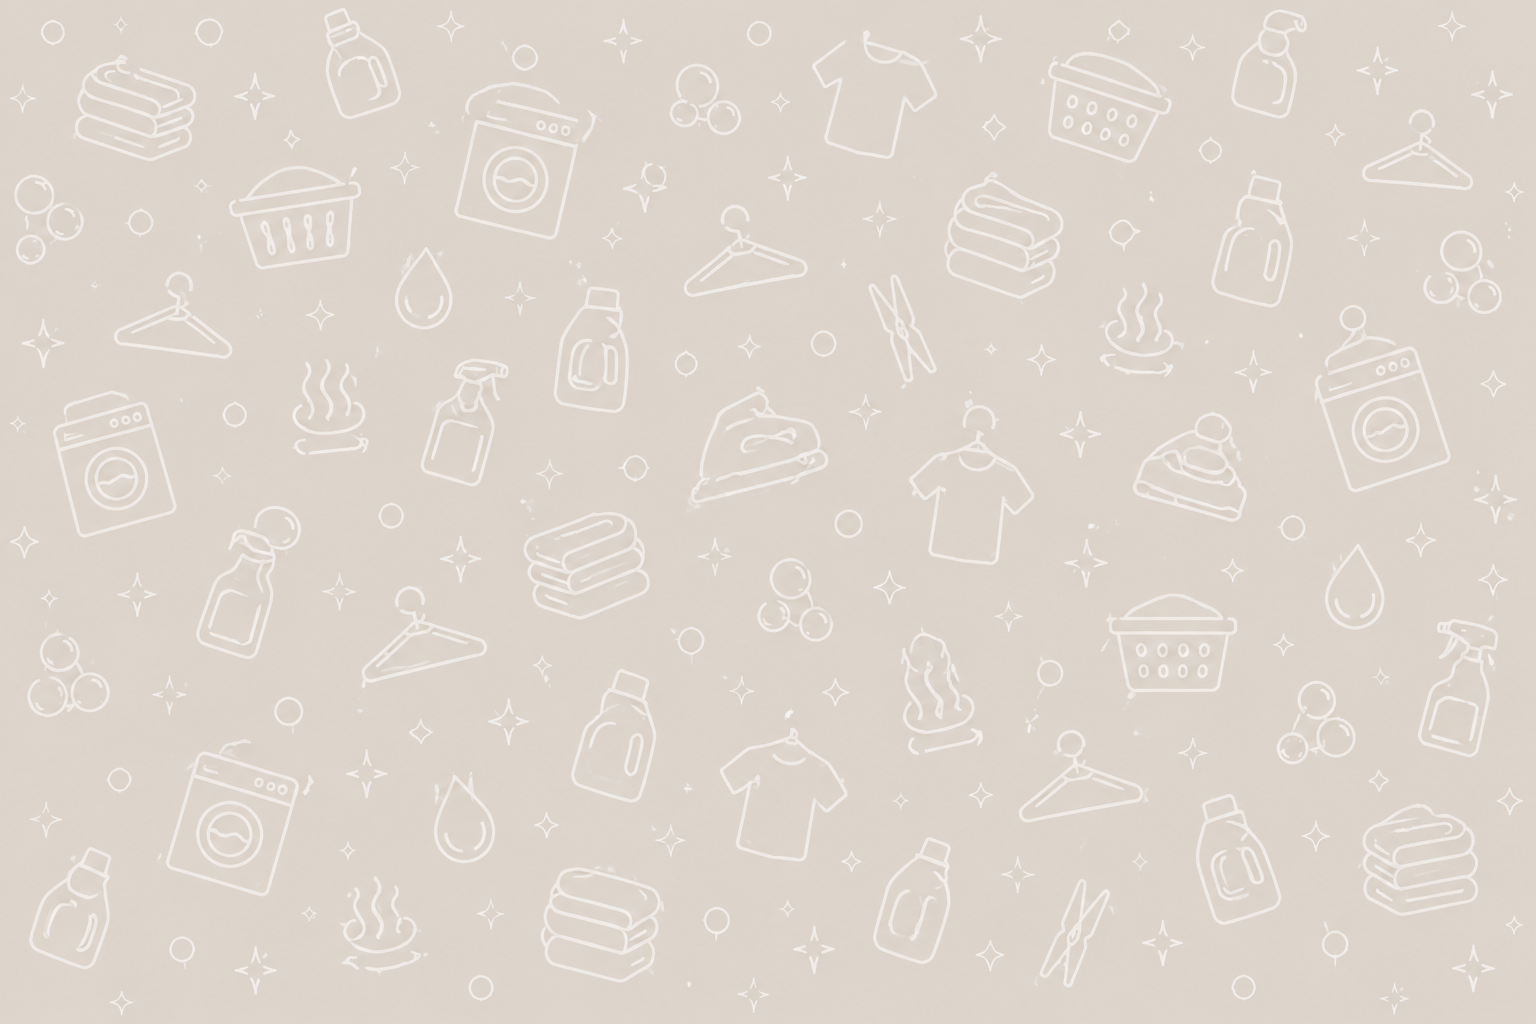
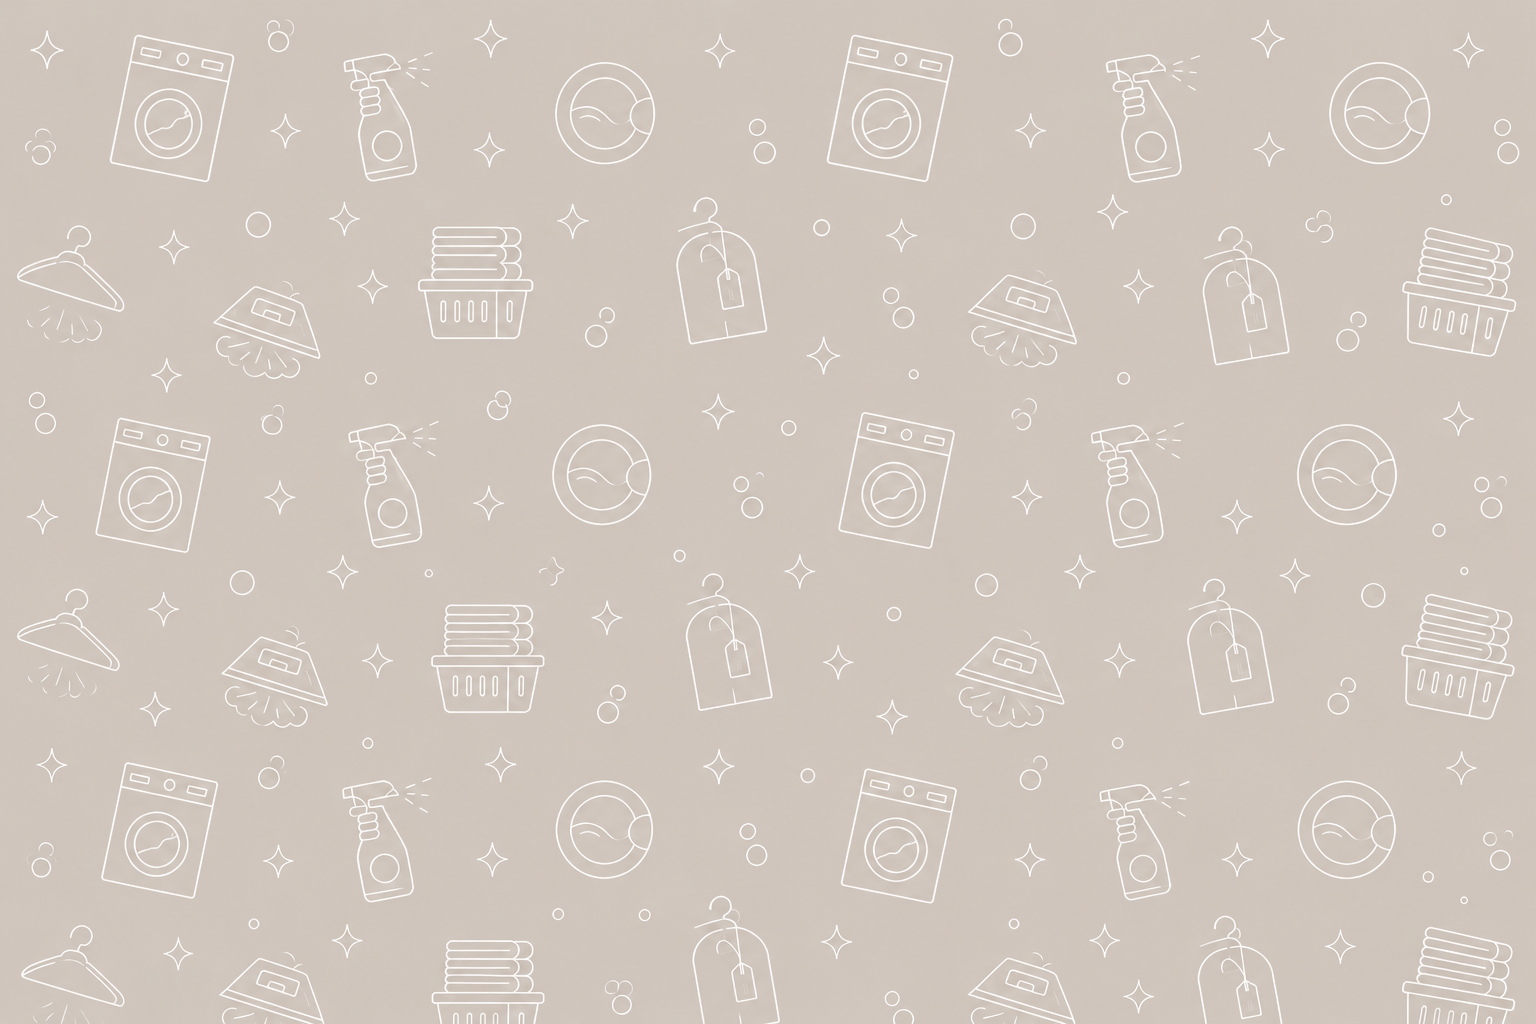
update homepage design

diff --git a/app/page.tsx b/app/page.tsx
@@ -1,96 +1,169 @@
 import Link from "next/link";
-import { Cpu, ClipboardCheck, Users, MessageCircle } from "lucide-react";
+import {
+  Cpu,
+  ClipboardCheck,
+  Users,
+  MessageCircle,
+  ShieldCheck,
+  Sparkles,
+  Droplets,
+  Waves,
+} from "lucide-react";
 
 export default function Home() {
   return (
     <main>
       {/* HERO */}
-      <section className="bg-gradient-to-r from-[#26364d] to-[#546d83] px-6 py-5 text-center text-white">
-        <div className="mx-auto max-w-4xl">
-<img
-  src="/logoa.png"
-  alt="Salla Arabic Logo"
-  className="mx-auto mb-1 h-60 w-auto object-contain"
-/>
+      <section className="relative overflow-hidden bg-[#26364d] text-white">
+        <img
+          src="/hero-counter.png"
+          alt="Salla premium garment care"
+          className="absolute inset-0 h-full w-full object-cover brightness-110 contrast-110"
+        />
 
-<p className="text-xl text-[#9cb2bf]">
-  Professional Wet & Dry Cleaning
-</p>
-          <p className="mx-auto max-w-3xl text-lg leading-8 text-white/90">
-            Salla is not the usual market player. We deliver professional garment
-            care through advanced technology, reliable processes, and skilled staff.
-          </p>
+        <div className="absolute inset-0 bg-gradient-to-r from-[#26364d] via-[#26364d]/85 to-[#26364d]/10" />
 
-          <a
-            href="https://wa.me/96895449977"
-            target="_blank"
-            className="mt-8 inline-flex items-center gap-2 rounded-xl bg-[#9cb2bf] px-6 py-3 font-semibold text-[#26364d] transition hover:scale-105"
-          >
-            <MessageCircle size={20} />
-            Contact on WhatsApp
-          </a>
+        <div className="relative mx-auto -mt-8 max-w-6xl px-6 pb-10">
+          <div className="max-w-2xl">
+            <img
+              src="/logoa.png"
+              alt="Salla Arabic Logo"
+              className="mb-1 h-70 w-auto object-contain"
+            />
+
+            <p className="mb-4 text- font-semibold uppercase tracking-[0.3em] text-[#9cb2bf]">
+              Professional Wet & Dry Cleaning
+            </p>
+
+            <h1 className="text-5xl font-bold leading-tight md:text-5xl">
+              Care Beyond Clean.
+              <br />
+              Quality You Can Trust.
+            </h1>
+
+            <p className="mt-6 max-w-xl text-lg leading-8 text-white/90">
+              Salla delivers premium garment care through advanced technology,
+              reliable processes, and skilled staff.
+            </p>
+
+            <div className="mt-8 flex flex-wrap gap-4">
+              <a
+                href="https://wa.me/96895449977"
+                target="_blank"
+                className="inline-flex items-center gap-2 rounded-2xl bg-[#9cb2bf] px-7 py-4 font-semibold text-[#26364d] transition hover:scale-105"
+              >
+                <MessageCircle size={20} />
+                Contact on WhatsApp
+              </a>
+
+              <Link
+                href="/tracker"
+                className="rounded-2xl border border-white/30 bg-white/10 px-7 py-4 font-semibold text-white backdrop-blur-sm transition hover:bg-white/20"
+              >
+                Track Order
+              </Link>
+            </div>
+          </div>
+        </div>
+
+        <div className="relative mx-auto -mt-16 max-w-6xl px-6 pb-10">
+          <div className="mt-24 grid rounded-3xl bg-[#26364d]/95 p-6 text-white shadow-2xl backdrop-blur md:grid-cols-4">
+            <Feature icon={<Cpu />} title="Advanced Technology" />
+            <Feature icon={<ShieldCheck />} title="Reliable Processes" />
+            <Feature icon={<Users />} title="Skilled Team" />
+            <Feature icon={<Sparkles />} title="Premium Care" />
+          </div>
         </div>
       </section>
 
       {/* ABOUT */}
-      <section className="bg-[#c6c1bb] px-6 py-16">
+      <section
+        className="px-6 py-20"
+        style={{
+          backgroundColor: "#c6c1bb",
+          backgroundImage: "url('/pattern.png')",
+          backgroundSize: "800px",
+          backgroundRepeat: "repeat",
+        }}
+      >
         <div className="mx-auto max-w-6xl">
-          <h2 className="mb-8 text-4xl font-bold">About Us</h2>
+          <div className="mb-12 text-center">
+            <h2 className="text-4xl font-bold text-[#26364d] md:text-5xl">
+              About Us
+            </h2>
+            <div className="mx-auto mt-4 h-1 w-16 rounded-full bg-[#546d83]" />
+          </div>
 
-          <div className="grid gap-6 md:grid-cols-3">
-            <div className="rounded-3xl bg-white p-8 shadow-sm">
-              <Cpu className="mb-5 text-[#546d83]" size={42} />
-              <h3 className="mb-3 text-2xl font-bold">Advanced Technology</h3>
-              <p className="leading-7 text-[#3f4f61]">
-                We use modern cleaning systems that go beyond the usual market
-                standard, with Hydrocarbon Dry Cleaning and Professional Wet Cleaning.
-              </p>
-            </div>
+          <div className="grid gap-8 md:grid-cols-3">
+            <InfoCard
+              icon={<Cpu />}
+              title="Advanced Technology"
+              text="We use modern cleaning systems that go beyond the usual market standard, with Hydrocarbon Dry Cleaning and Professional Wet Cleaning."
+            />
 
-            <div className="rounded-3xl bg-white p-8 shadow-sm">
-              <ClipboardCheck className="mb-5 text-[#546d83]" size={42} />
-              <h3 className="mb-3 text-2xl font-bold">Strong Processes</h3>
-              <p className="leading-7 text-[#3f4f61]">
-                Our workflow is designed so garments are tracked properly and no
-                clothing is missed during handling and delivery.
-              </p>
-            </div>
+            <InfoCard
+              icon={<ClipboardCheck />}
+              title="Strong Processes"
+              text="Our workflow is designed so garments are tracked properly and no clothing is missed during handling and delivery."
+            />
 
-            <div className="rounded-3xl bg-white p-8 shadow-sm">
-              <Users className="mb-5 text-[#546d83]" size={42} />
-              <h3 className="mb-3 text-2xl font-bold">Skilled Team</h3>
-              <p className="leading-7 text-[#3f4f61]">
-                Our employees are trained to deliver consistent, high-quality service
-                with attention to detail and fabric care.
-              </p>
-            </div>
+            <InfoCard
+              icon={<Users />}
+              title="Skilled Team"
+              text="Our employees are trained to deliver consistent, high-quality service with attention to detail and fabric care."
+            />
           </div>
         </div>
       </section>
 
       {/* DIFFERENT */}
-      <section className="bg-[#9cb2bf] px-6 py-16">
+      <section className="bg-gradient-to-br from-[#e8f0f4] to-[#c7d7df] px-6 py-20">
         <div className="mx-auto max-w-5xl text-center">
-          <h2 className="mb-4 text-4xl font-bold">
+          <h2 className="mb-4 text-4xl font-bold text-[#26364d] md:text-5xl">
             What makes Salla different?
           </h2>
-          <p className="mx-auto max-w-3xl text-lg leading-8">
+
+          <p className="mx-auto max-w-3xl text-lg leading-8 text-[#26364d]">
             Our two main strengths are Hydrocarbon Dry Cleaning and Professional
             Wet Cleaning. These are the core of our service and the reason we
             offer a better standard of garment care.
           </p>
 
-          <div className="mt-8 flex flex-wrap justify-center gap-4">
+          <div className="mt-12 grid gap-8 md:grid-cols-2">
+            <div className="rounded-3xl bg-white/70 p-8 text-left shadow-lg backdrop-blur">
+              <Droplets className="mb-4 text-[#26364d]" size={42} />
+              <h3 className="text-2xl font-bold text-[#26364d]">
+                Professional Wet Cleaning
+              </h3>
+              <p className="mt-3 leading-7 text-[#3f4f61]">
+                Gentle on fabrics, tough on stains. Perfect for delicate and
+                everyday garments.
+              </p>
+            </div>
+
+            <div className="rounded-3xl bg-white/70 p-8 text-left shadow-lg backdrop-blur">
+              <Waves className="mb-4 text-[#26364d]" size={42} />
+              <h3 className="text-2xl font-bold text-[#26364d]">
+                Hydrocarbon Dry Cleaning
+              </h3>
+              <p className="mt-3 leading-7 text-[#3f4f61]">
+                Advanced cleaning with no harsh odors or residue. Safer for you
+                and your clothes.
+              </p>
+            </div>
+          </div>
+
+          <div className="mt-10 flex flex-wrap justify-center gap-4">
             <Link
               href="/services"
-              className="rounded-xl bg-[#26364d] px-6 py-3 font-semibold text-white"
+              className="rounded-2xl bg-[#26364d] px-8 py-4 font-semibold text-white shadow-lg transition hover:scale-105"
             >
               View Services
             </Link>
 
             <Link
               href="/prices"
-              className="rounded-xl bg-white px-6 py-3 font-semibold text-[#26364d]"
+              className="rounded-2xl border border-[#26364d] bg-white px-8 py-4 font-semibold text-[#26364d] transition hover:scale-105"
             >
               View Prices
             </Link>
@@ -98,5 +171,36 @@ export default function Home() {
         </div>
       </section>
     </main>
+  );
+}
+
+function Feature({ icon, title }: { icon: React.ReactNode; title: string }) {
+  return (
+    <div className="flex items-center gap-4 border-white/10 px-4 py-3 md:border-r last:border-r-0">
+      <div className="text-[#9cb2bf]">{icon}</div>
+      <p className="font-semibold">{title}</p>
+    </div>
+  );
+}
+
+function InfoCard({
+  icon,
+  title,
+  text,
+}: {
+  icon: React.ReactNode;
+  title: string;
+  text: string;
+}) {
+  return (
+    <div className="rounded-3xl bg-white p-8 text-center shadow-xl transition hover:-translate-y-1">
+      <div className="mx-auto mb-6 flex h-20 w-20 items-center justify-center rounded-full bg-[#e8e2dc] text-[#26364d]">
+        {icon}
+      </div>
+
+      <h3 className="mb-4 text-2xl font-bold text-[#26364d]">{title}</h3>
+
+      <p className="leading-7 text-[#3f4f61]">{text}</p>
+    </div>
   );
 }
